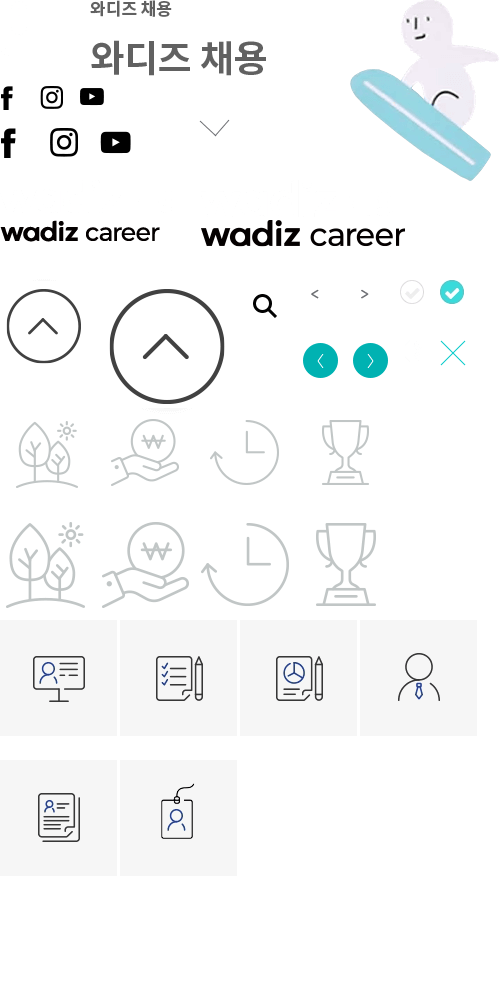
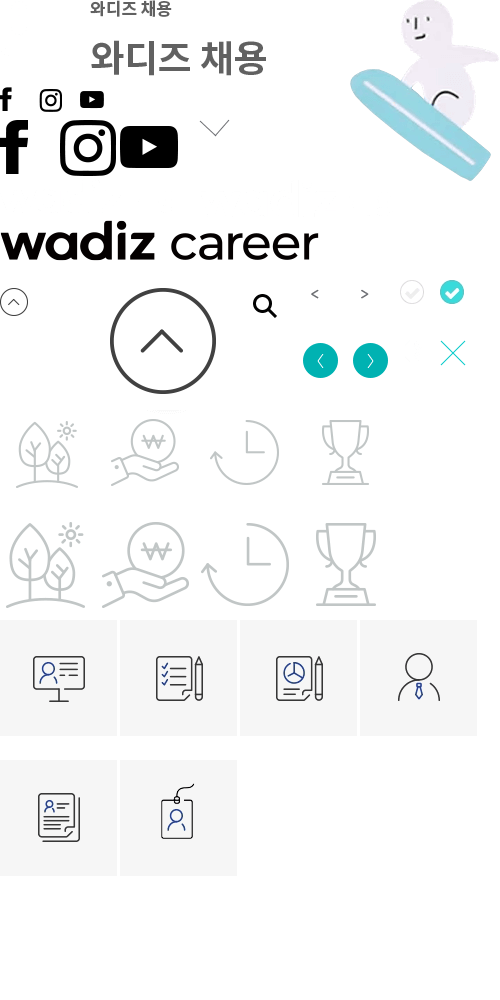
이전 수정본

diff --git a/res/pub/front/resource/css/wadiz.css b/res/pub/front/resource/css/wadiz.css
@@ -6,13 +6,15 @@
  * -------------------------------
  */
 @import url(http://fonts.googleapis.com/earlyaccess/notosanskr.css);
+@import url(http://fonts.googleapis.com/css?family=Roboto:400,100,100italic,300,300italic,400italic,500,500italic,700,700italic,900italic,900);
+
 
 html, body, div, p, span, strong, b, em, iframe, pre, h1, h2, h3, h4, h5, h6,
 img, dl, dt, dd, fieldset, form, legend, label, table, caption, thead, tbody, tfoot, tr, th, td,
 ul, ol, li, a, input, select, textarea, article, aside, canvas, details, embed, figure, figcaption,
-footer, header, menu, nav, output, ruby, section, summary, time, mark, audio, video {margin: 0;padding: 0;border: 0 none;font-family:'Noto Sans KR','Sans-serif';font-weight: 400;}
-body, input, select, textarea {font-family: 'Noto Sans KR', Dotum, "돋음", AppleGothic, Sans-serif, Arial;font-size: 14px;font-weight: 400;line-height: 1;color: #333;word-break:break-all;}
-h1, h2, h3, h4, h5, h6, b, strong {font-family:'Noto Sans KR', 'Sans-serif';font-weight: 500;}
+footer, header, menu, nav, output, ruby, section, summary, time, mark, audio, video {margin: 0;padding: 0;border: 0 none;font-family:'Roboto', 'Noto Sans KR', 'Sans-serif';font-weight: 400;}
+body, input, select, textarea {font-family:'Roboto', 'Noto Sans KR', Dotum, "돋음", AppleGothic, Sans-serif, Arial;font-size: 14px;font-weight: 400;line-height: 1;color: #333;word-break:break-all;}
+h1, h2, h3, h4, h5, h6, b, strong {font-family:'Roboto', 'Noto Sans KR', 'Sans-serif';font-weight: 400;}
 html,body {height: 100%;width: 100%;}
 ul, ol, li {list-style: none;}
 em, address, i {font-style: normal;}
@@ -42,7 +44,7 @@ audio,canvas,progress,video {display: inline-block;vertical-align: baseline}
 input[type='text'], input[type='password'], input[type='tel'], input[type='search'] {
 	height:50px;padding:0 10px 0 18px;-webkit-appearance:none;
 	outline:none 0;box-sizing:border-box;line-height:48px;color:#555;vertical-align: middle;
-	font-family:'Noto Sans KR','Sans-serif';font-weight:300;
+	font-family:'Roboto', 'Noto Sans KR', 'Sans-serif';font-weight:300;
 	border:1px solid #dedede;
 }
 input[type="search"] {height:56px;line-height:53px;padding:0 10px 0 30px;background-color:#f0f2f4;border-radius:5px;border:1px solid #dce1e5;}
@@ -134,6 +136,7 @@ select option { font-size: 13px;}
 .btn-move-top {display:none;position: fixed;z-index:250;left: 50%;margin-left:41%;bottom:80px;width: 86px;height: 86px; background-image:url('../../resource/images/sp_wadiz.png');background-repeat:no-repeat;background-size:500px auto;background-position:0 -280px;}
 .btn-search {position:absolute;top:2px;right:15px;width:50px;height:50px;background-position:-240px -280px;}
 .btn-type2 {color:#fff;font-size:12px;height:30px;line-height:29px;padding:0 12px;background-color:#00cccc;vertical-align:middle}
+.btn-type.dark { min-width:165px; background-color:#000; border-radius:0; line-height:55px; }
 
 
 /* select */
@@ -248,7 +251,7 @@ html.fp-enabled,
 	top: -2px;
 	color: #fff;
 	font-size: 14px;
-	font-family: arial, helvetica, sans-serif;
+	font-family:'Roboto', arial, helvetica, sans-serif;
 	white-space: nowrap;
 	max-width: 220px;
 	overflow: hidden;
@@ -489,8 +492,8 @@ html.fp-enabled,
 .sub-visual-section.why2 {height:780px;background-image:url('../../resource/images/sub_visual_02_01.jpg');}
 .sub-visual-section.inside {background-image:url('../../resource/images/sub_visual_03.jpg');}
 .sub-visual-section.recruit {background-image:url('../../resource/images/sub_visual_04.jpg');}
-.section-title {margin-bottom:28px;font-size:44px;font-weight:300;line-height:60px;text-align:center;letter-spacing:-1.5px}
-.section-desc {text-align:center;font-size:18px;font-weight:100;line-height:28px;}
+.section-title {margin-bottom:28px;font-size:44px;font-weight:300;line-height:60px;text-align:left;letter-spacing:-1.5px}
+.section-desc {text-align:left;font-size:17px;font-weight:100;line-height:28px;color:#010101;}
 .point-title {position:relative;display:block;font-size:24px;color:#00cccc;text-align:center}
 .point-title::after {content:"";display:block;position:relative;transform:translate(-50%);left:50%;width:22px;height:1px;margin:32px 0;background-color:#00cccc;text-align:center}
 .line-v1 {display:none}
@@ -499,7 +502,7 @@ html.fp-enabled,
 .goal-box:last-child {margin-left:24px;}
 .sub-title {font-size:45px;font-weight:300;color:#fff;line-height:62px;margin-bottom:52px;letter-spacing:-1px;text-align:center}
 .sub-title.v1 {color:#010101;}
-.sub-desc {font-size:18px;line-height:28px;font-weight:400;color:#fff;text-align:center	}
+.sub-desc {font-size:18px;line-height:28px;font-weight:300;color:#fff;text-align:center	}
 .sub-desc.v1 {color:#555;}
 .principle-list {display:flex;justify-content:center;flex-wrap:wrap;}
 .principle-list .principle-item {position:relative;padding:0 40px;text-align:center}
@@ -708,6 +711,27 @@ body.show-spinner .spinor-area { display: block; }
 .content-info-txt {color:#777;margin-bottom:20px;padding-left:8px;text-indent:-8px;line-height:20px}
 .not-pc {display:none}
 
+
+
+
+
+
+
+/* 2020-09-08 add */
+.fstyle_kopub{font-family: 'KoPub Dotum'!important;}
+.fstyle_nabarun{font-family: 'NanumBarunGothic'!important;}
+.fstyle_nanum{font-family: 'Nanum Gothic'!important;}
+
+
+
+/* 2020-11-11 add */
+.faqbx{border-top:1px solid #222; border-bottom:1px solid #ddd; position:relative;}
+.faqbx .quesbx{font-size:20px; font-weight:500; line-height:1.3; padding:10px 10px 10px 35px;  position:relative;}
+.faqbx .quesbx .blittx{font-size:20px; color:#00cccc; font-weight:500; position:absolute; top:8px; left:10px;}
+.faqbx .ansbx{font-size:16px; line-height:24px; font-weight:300; background:#f2f2f2;  position:relative; padding:10px 10px 10px 35px; }
+.faqbx .ansbx .blittx{color:#999; font-weight:500; position:absolute; top:8px; left:10px; font-size:22px;}
+
+
 /* [20201118] version2 */
 .v2 .sp_wadiz,
 .v2 .sp_wadiz-a::after,
@@ -715,7 +739,7 @@ body.show-spinner .spinor-area { display: block; }
 /* header */
 #header.v2 {position:fixed;top:0;width:100%;z-index:200;transition:all .4s;min-height:70px;overflow:hidden;}
 #header.v2::before {content:"";position:absolute;left:0;top:69px;width:100%;height:1px;background-color:#fff;}
-#header.v2 .recruit-log {width:162px;height:33px;margin-top:22px;background-position-y:-220px;}
+#header.v2 .recruit-log {width:162px;height:33px;margin-top:22px;background-position-y:-110px; background-size:250px auto; }
 #header.v2 .header-section { max-width:960px }
 
 .v2 #desktopMenu .main-menu-list .mm-1depth .link-1depth {position:relative;display:block;padding:26px 0 28px;font-size:16px;font-weight:500;color:#1d2129;}
@@ -729,7 +753,11 @@ body.show-spinner .spinor-area { display: block; }
 
 /* footer */
 #footer.v2 {width:100%; max-width:1000px; margin:0 auto; padding:50px 20px 60px;text-align:left;background:none; font-size:12px; }
-#footer.v2 .footer-logo {display:inline-block;width:86px;height:21px;margin-bottom:25px;background-position-x:-90px;}
+#footer.v2 .footer-logo {width:80px;margin-bottom:25px;background:none; }
+.v2 .sns-list .sns-item .sns-link {display:block;width:25px;height:25px;background-position-y:-87px;}
+.v2 .sns-list .sns-item.ut { margin-right:10px; }
+.v2 .sns-list .sns-item.face {margin-right:0;}
+.v2 .sns-list .sns-item.insta {margin-right:0;}
 .v2 .address { display:block; padding:0; font-size:12px; font-weight:500; color:#616161; }
 .v2 .address p, .v2 .address span { font:inherit; line-height:1.6em; letter-spacing:-0.025em; }
 .v2 .address p span { display:block; }
@@ -764,8 +792,8 @@ body.show-spinner .spinor-area { display: block; }
 .bul-dot > li:before { display:inline-block; width:3px; height:3px; border-radius:50%; background:#414141; margin:-2px 5px 0 -8px; vertical-align:middle; content:""; }
 .bul-dot > li { margin-top:8px; padding-left:9px; line-height:1.4em; font-size:16px; font-weight:700; letter-spacing:-0.025em; word-break:keep-all; }
 
-.bul-star { margin-top:35px; line-height:1.4em; }
-.bul-star:before { display:inline-block; margin:2px 3px 0 0; vertical-align:middle; content:"*"; }
+.bul-star { margin-top:35px; line-height:1.4em; padding-left:10px; }
+.bul-star:before { display:inline-block; margin:2px 3px 0 -10px; vertical-align:middle; content:"*"; }
 
 /* process list */
 .process-area { width:100%; margin:120px 0 160px; text-align:center; }
@@ -778,4 +806,4 @@ body.show-spinner .spinor-area { display: block; }
 .process-list > li span { position:absolute; top:50%; left:0; width:100%; padding:0 10px; transform:translateY(-50%); font:inherit; }
 
 /* go top */
-.btn-move-top.v2 { background-image:url('../../resource/images/sp_wadiz2.png'); 
+.btn-move-top.v2 { width:30px; height:30px; background-image:url('../../resource/images/sp_wadiz2.png'); background-position:0 -287px; margin-left: 44%; bottom: 30px; }

diff --git a/res/pub/front/resource/css/wadiz.mob.css b/res/pub/front/resource/css/wadiz.mob.css
@@ -6,7 +6,8 @@
 .select-box:after,
 .btn-move-top {background-size:250px auto;}
 .select-box:after {background-position:-100px -60px;width: 15px;height: 8px;}
-.btn-type {height:48px;line-height:46px;padding:0 15px;font-weight:400;font-size:15px;letter-spacing:-1px}
+.btn-type {height:48px;line-height:46px;padding:0 15px;font-weight:400;font-size:15px;letter-spacing:-1px;}
+.btn-type.dark {min-width:40%;font-size:18px;line-height:50px;}
 .btn-move-top {width:70px;height:69px;bottom:20px;margin-left:0;right:20px;left:auto;background-position:-50px -140px;}
 .radio .fake-radio {width:12px;height:12px;margin-right:4px;background-position:-200px -140px;top:3px}
 .radio label {padding-left:16px}
@@ -261,18 +262,40 @@ input[type='text'], input[type='password'], input[type='tel'] {height:40px}
 
 
 /* [20201118] version2 */
-#header.v2 { min-height:60px; background:#fff; }
+#header.v2 .mob-copyright { display:none; }
+#header.v2 { z-index:300; min-height:60px; background:#fff; }
+#header.v2.opened { height:auto; }
 #header.v2:before {top:59px; background-color:#d4d4d4;}
 #header.v2 .recruit-log,
-#header.v2:hover .recruit-log {width:110px; }
-#header.v2 .recruit-log { margin-top:20px; }
+#header.v2:hover .recruit-log {width:200px; background-position:0px -110px;}
+#header.v2 .recruit-log { transform:scale(.8); margin:18px 0 0 0; }
+#header.v2 .btn-hamburger { z-index:11; }
+#header.v2 .open .icon-burger:before, 
+#header.v2 .open .icon-burger:after { top:0; }
+#header.v2 .icon-burger:before, 
+#header.v2 .icon-burger:after { width:26px; height:2px; background-color:#414141; }
+#header.v2 .icon-burger:before { top:10px; }
+#header.v2 .icon-burger:after { top:-10px; }
+#header.v2 .icon-burger { width:26px; height:2px; background-color:#414141; }
+#header.v2 #mobileMenu { z-index:10; position:fixed; top:0; right:0; width:100%; height:100%; background:rgba(0,0,0,0.4); }
+#header.v2 #mobileMenu .main-menu-wrap { position:absolute; right:-100%; top:0; width:62%; height:100%; background:#fff; margin:0; }
+#header.v2 #mobileMenu .main-menu-wrap .main-menu-list { padding-top:77px; }
+#header.v2 #mobileMenu .main-menu-list .mm-1depth {margin-top:10px; margin-left:25px; }
+#header.v2 #mobileMenu .main-menu-list .mm-1depth .link-1depth { font-size:16px; }
+#header.v2 #mobileMenu .main-menu-list .mm-1depth.is-selected .link-1depth { color:#c7c7c7 !important; }
 
 /* footer */
 #footer.v2 .footer-logo { width:90px; height:20px; background-position-x:-45px; }
+#footer.v2 .footer-logo img { height:14px; }
 .v2 .address .name { margin-top:20px; }
 
 .v2 .sp_wadiz, .v2 .sp_wadiz-a::after, .v2 .sp_wadiz-b::before { background-size:250px auto; }
 .v2 .recruit-section { padding:50px 20px; }
+
+.v2 .sns-list .sns-item .sns-link { width:30px; height:30px; background-position-y:-60px; }
+.v2 .sns-list .sns-item.insta .sns-link {background-position-x:-30px;}
+.v2 .sns-list .sns-item.ut { margin-right:15px; }
+.v2 .sns-list .sns-item.ut .sns-link {background-position-x:-60px;}
 
 /* content */
 .v2 .sub-visual-section.recruit { margin-top:60px; height:0; padding-top:58%;  background-position:50% center; max-height:250px; }
@@ -293,3 +316,7 @@ input[type='text'], input[type='password'], input[type='tel'] {height:40px}
 .process-list > li span { padding:0 20px; }
 
 .v2 .detail-area .detail-date { left:20px; }
+.btn-move-top.v2 { width:53px; height:53px; background-position:-55px -144px; }
+
+.align-box.tac { justify-content:space-between; }
+.align-box.tac .btn-type { flex:1 1 auto; }

diff --git a/res/pub/front/resource/html/recruit_notification.html b/res/pub/front/resource/html/recruit_notification.html
@@ -56,7 +56,7 @@
 
 			<div class="intro-area">
 				<div class="intro-title">
-					<span class="tag"><img src="../images/tag_process.png" alt="PROCESS"></span>
+					<span class="tag"><img src="/res/pub/front/resource/images/tag_process.svg" alt="PROCESS" width="80"></span>
 					<h3 class="title">더 나은 세상을 함께 만들어갈 당신을 기다립니다</h3>
 				</div>
 				<div class="intro-cont">
@@ -207,7 +207,7 @@
 <button type="button" class="btn-move-top v2"><span class="a11y">상단으로 이동하기</span></button>
 
 <footer id="footer" class="v2">
-	<a href="https://www.wadiz.kr/web/main" target="_blank" class="footer-logo sp_wadiz"><span class="a11y">와디즈 홈으로 바로가기</span></a>
+	<a href="https://www.wadiz.kr/web/main" target="_blank" class="footer-logo sp_wadiz"><img src="/res/pub/front/resource/images/bi_wadiz.svg" alt="와디즈 채용"><span class="a11y">와디즈 홈으로 바로가기</span></a>
 	<p>채용에 관해 궁금한 점이 있으시다면 아래로 문의해주세요!</p>
 	<address class="address">
 		<p class="txt-address">
@@ -225,8 +225,8 @@
 	</address>
 	<ul class="sns-list">
 		<li class="sns-item face"><a href="https://www.facebook.com/wadiz.funding" class="sns-link sp_wadiz" target="_blank"><span class="a11y">페이스북 바로가기</span></a></li>
-		<li class="sns-item insta"><a href="https://www.instagram.com/wadiz_reward/" class="sns-link sp_wadiz" target="_blank"><span class="a11y">유투브 바로가기</span></a></li>
-		<li class="sns-item ut"><a href="https://www.youtube.com/channel/UCRF2YAxV9vnzo2khhGCGlZg/featured" class="sns-link sp_wadiz" target="_blank"><span class="a11y">인스타그램 바로가기</span></a></li>
+		<li class="sns-item ut"><a href="https://www.youtube.com/channel/UCRF2YAxV9vnzo2khhGCGlZg/featured" class="sns-link sp_wadiz" target="_blank"><span class="a11y">유튜브 바로가기</span></a></li>
+		<li class="sns-item insta"><a href="https://www.instagram.com/wadiz_funding/" class="sns-link sp_wadiz" target="_blank"><span class="a11y">인스타그램 바로가기</span></a></li>
 	</ul>
 </footer>
 <button type="button" class="btn-move-top v2"><span class="a11y">상단으로 이동하기</span></button>

diff --git a/res/pub/front/resource/html/recruit_detail.html b/res/pub/front/resource/html/recruit_detail.html
@@ -69,11 +69,11 @@
 				</div>
 			</div>
 			<p class="content-info-txt not-pc">*위 공고에 관심이 있으신 분은 아래 "관심 포지션 등록"에 등록해주세요. 기입해주신 연락처로 포지션 정보 및 지원 방법을 안내해 드리겠습니다.</p>
-			<div class="align-box tar">
-				<a href="#;" class="btn-type">목록</a>
-				<a href="#;" class="btn-type">지원하기</a>
-				<a href="#;" class="btn-type">지원서 수정하기</a>
-				<a href="https://app.smartsheet.com/b/form/d0eadbabed164f4183d6927c3f2b42d8" class="btn-type not-pc" target="_blank">관심 포지션 등록</a>
+			<div class="align-box tac">
+				<a href="#;" class="btn-type dark">목록</a>
+				<a href="#;" class="btn-type dark">지원서 작성</a>
+				<a href="#;" class="btn-type dark">지원서 수정</a>
+				<a href="https://app.smartsheet.com/b/form/d0eadbabed164f4183d6927c3f2b42d8" class="btn-type dark not-pc" target="_blank">관심 포지션 등록</a>
 			</div>
 		</div>
 	</div>
@@ -82,12 +82,11 @@
 <button type="button" class="btn-move-top v2"><span class="a11y">상단으로 이동하기</span></button>
 
 <footer id="footer" class="v2">
-	<a href="https://www.wadiz.kr/web/main" target="_blank" class="footer-logo sp_wadiz"><span class="a11y">와디즈 홈으로 바로가기</span></a>
+	<a href="https://www.wadiz.kr/web/main" target="_blank" class="footer-logo sp_wadiz"><img src="/res/pub/front/resource/images/bi_wadiz.svg" alt="와디즈 채용"><span class="a11y">와디즈 홈으로 바로가기</span></a>
 	<p>채용에 관해 궁금한 점이 있으시다면 아래로 문의해주세요!</p>
 	<address class="address">
 		<p class="txt-address">
-			<span>Tel. 031 - 778 - 8054</span>
-			<span>Email. recruit@wadiz.kr</span>
+			<span>Email. team.recruit.@wadiz.kr</span>
 			<span class="name">와디즈플랫폼 (주)</span>
 			<span>사업자등록번호 220-88-37661</span>
 			<span>대표이사 최동철</span>

diff --git a/res/pub/front/resource/js/wadiz.js b/res/pub/front/resource/js/wadiz.js
@@ -109,9 +109,26 @@ WD.ctrlMenu = function() {
 			if ( !$(this).is('.open')) {
 				$(this).addClass('open');
 				headerEl.addClass( 'opened' );
+				if (headerEl.hasClass('v2')) {
+					headerEl.find('#mobileMenu').animate({'opacity': 1}, 400);
+					headerEl.find('.main-menu-wrap').css('right','-80%').animate({
+						'right': '0',
+						'opacity': '1'
+					}, 400)
+				}
 			} else {
 				$(this).removeClass('open');
-				headerEl.removeClass( 'opened' );
+				if (headerEl.hasClass('v2')) {
+					headerEl.find('#mobileMenu').animate({'opacity': 0}, 400);
+					headerEl.find('.main-menu-wrap').css('right','0').animate({
+						'right': '-80%',
+						'opacity': '0'
+					}, 400, function(){
+						headerEl.removeClass( 'opened' );
+					})
+				} else {
+					headerEl.removeClass( 'opened' );
+				}
 			}
 
 		});
